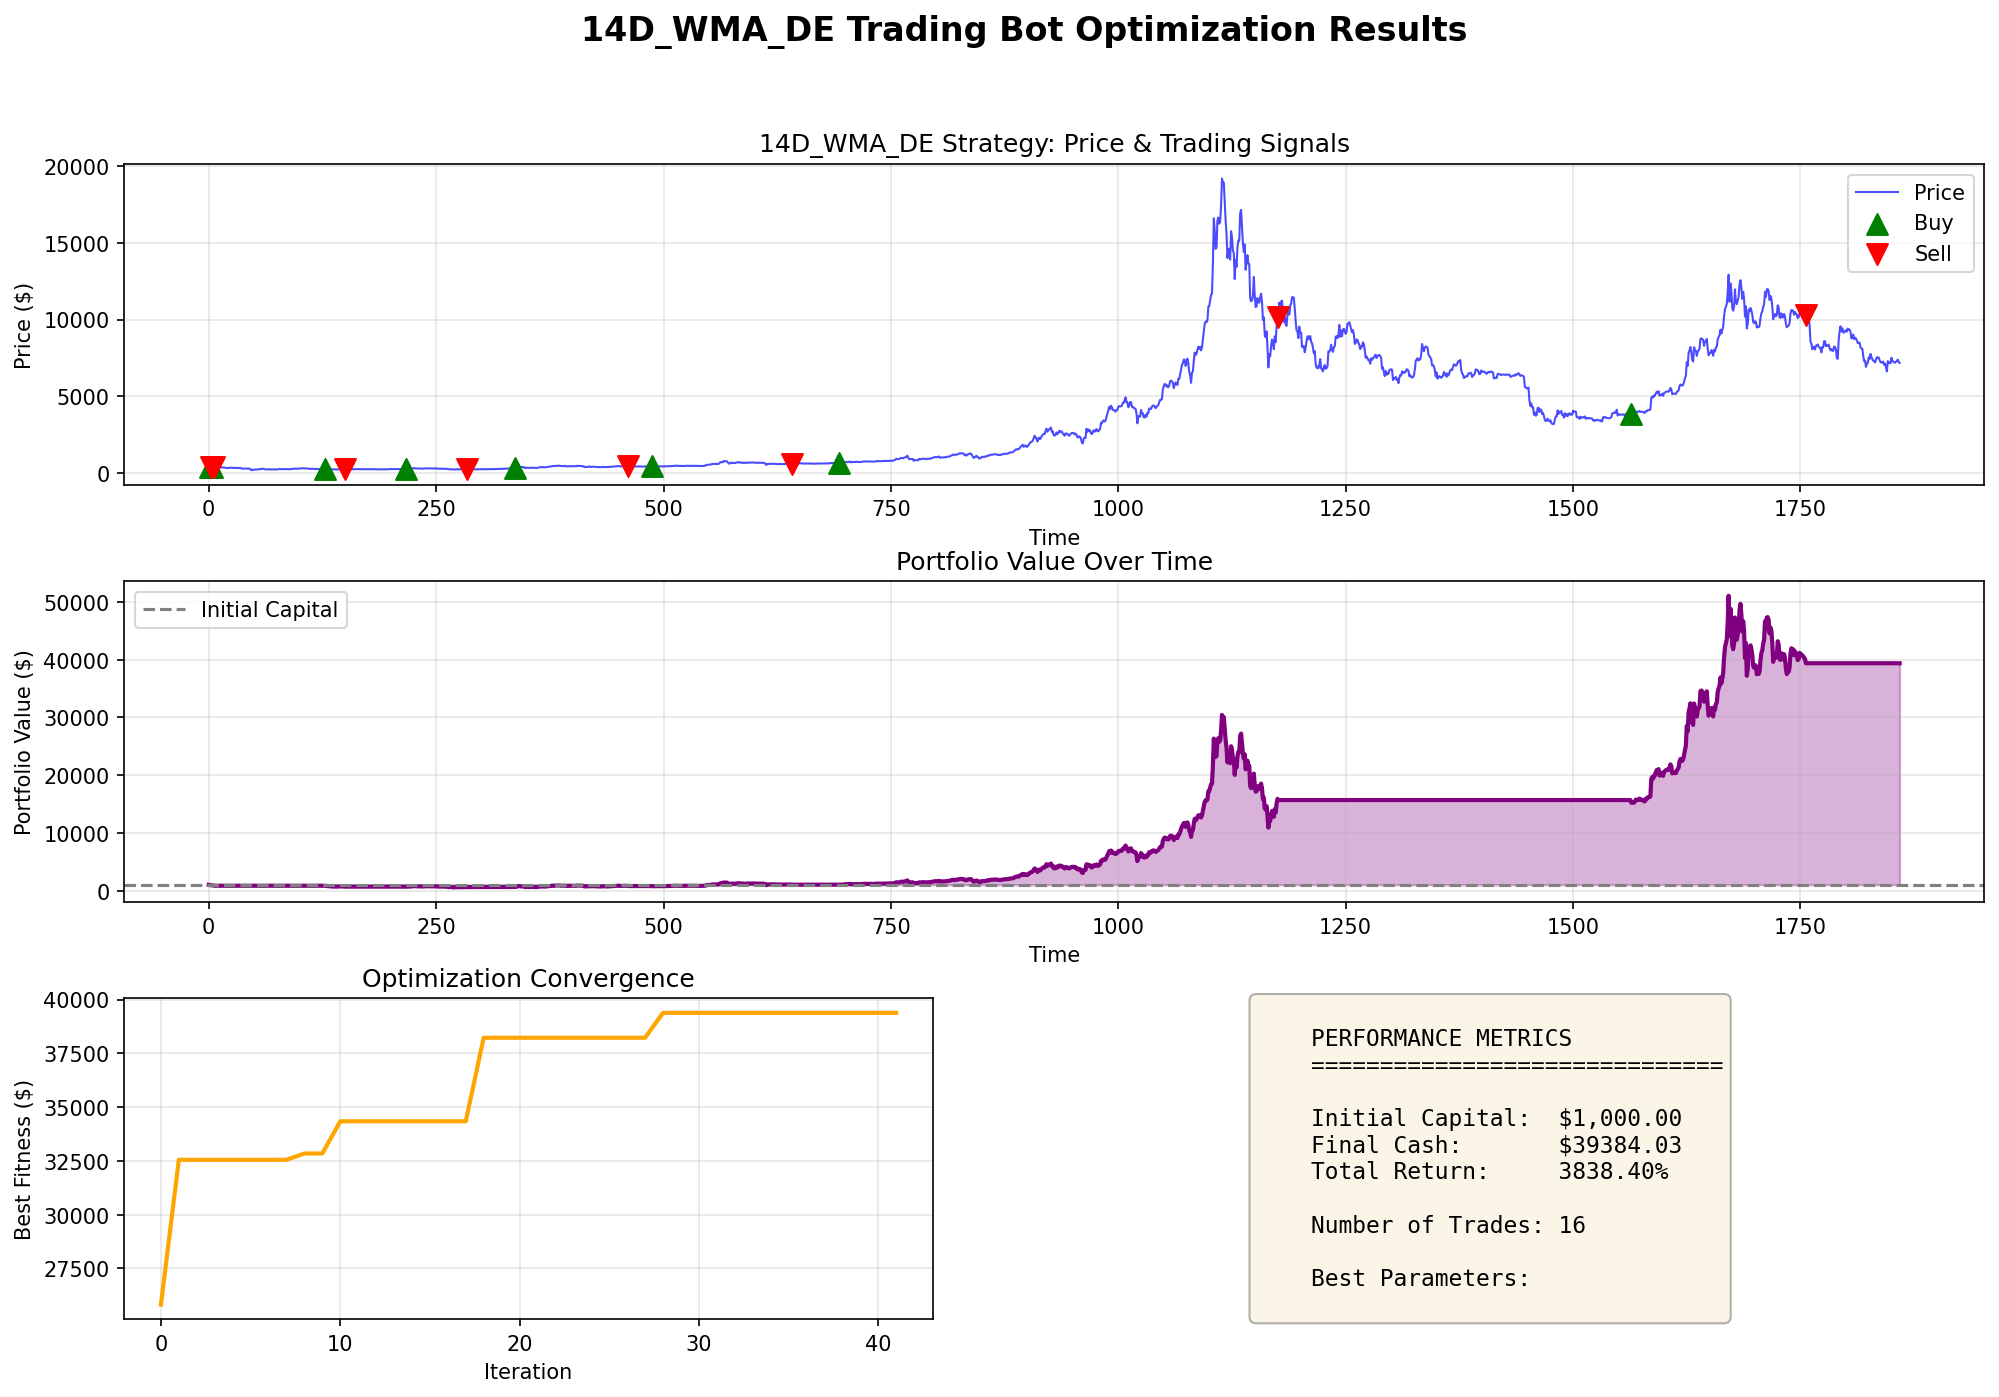
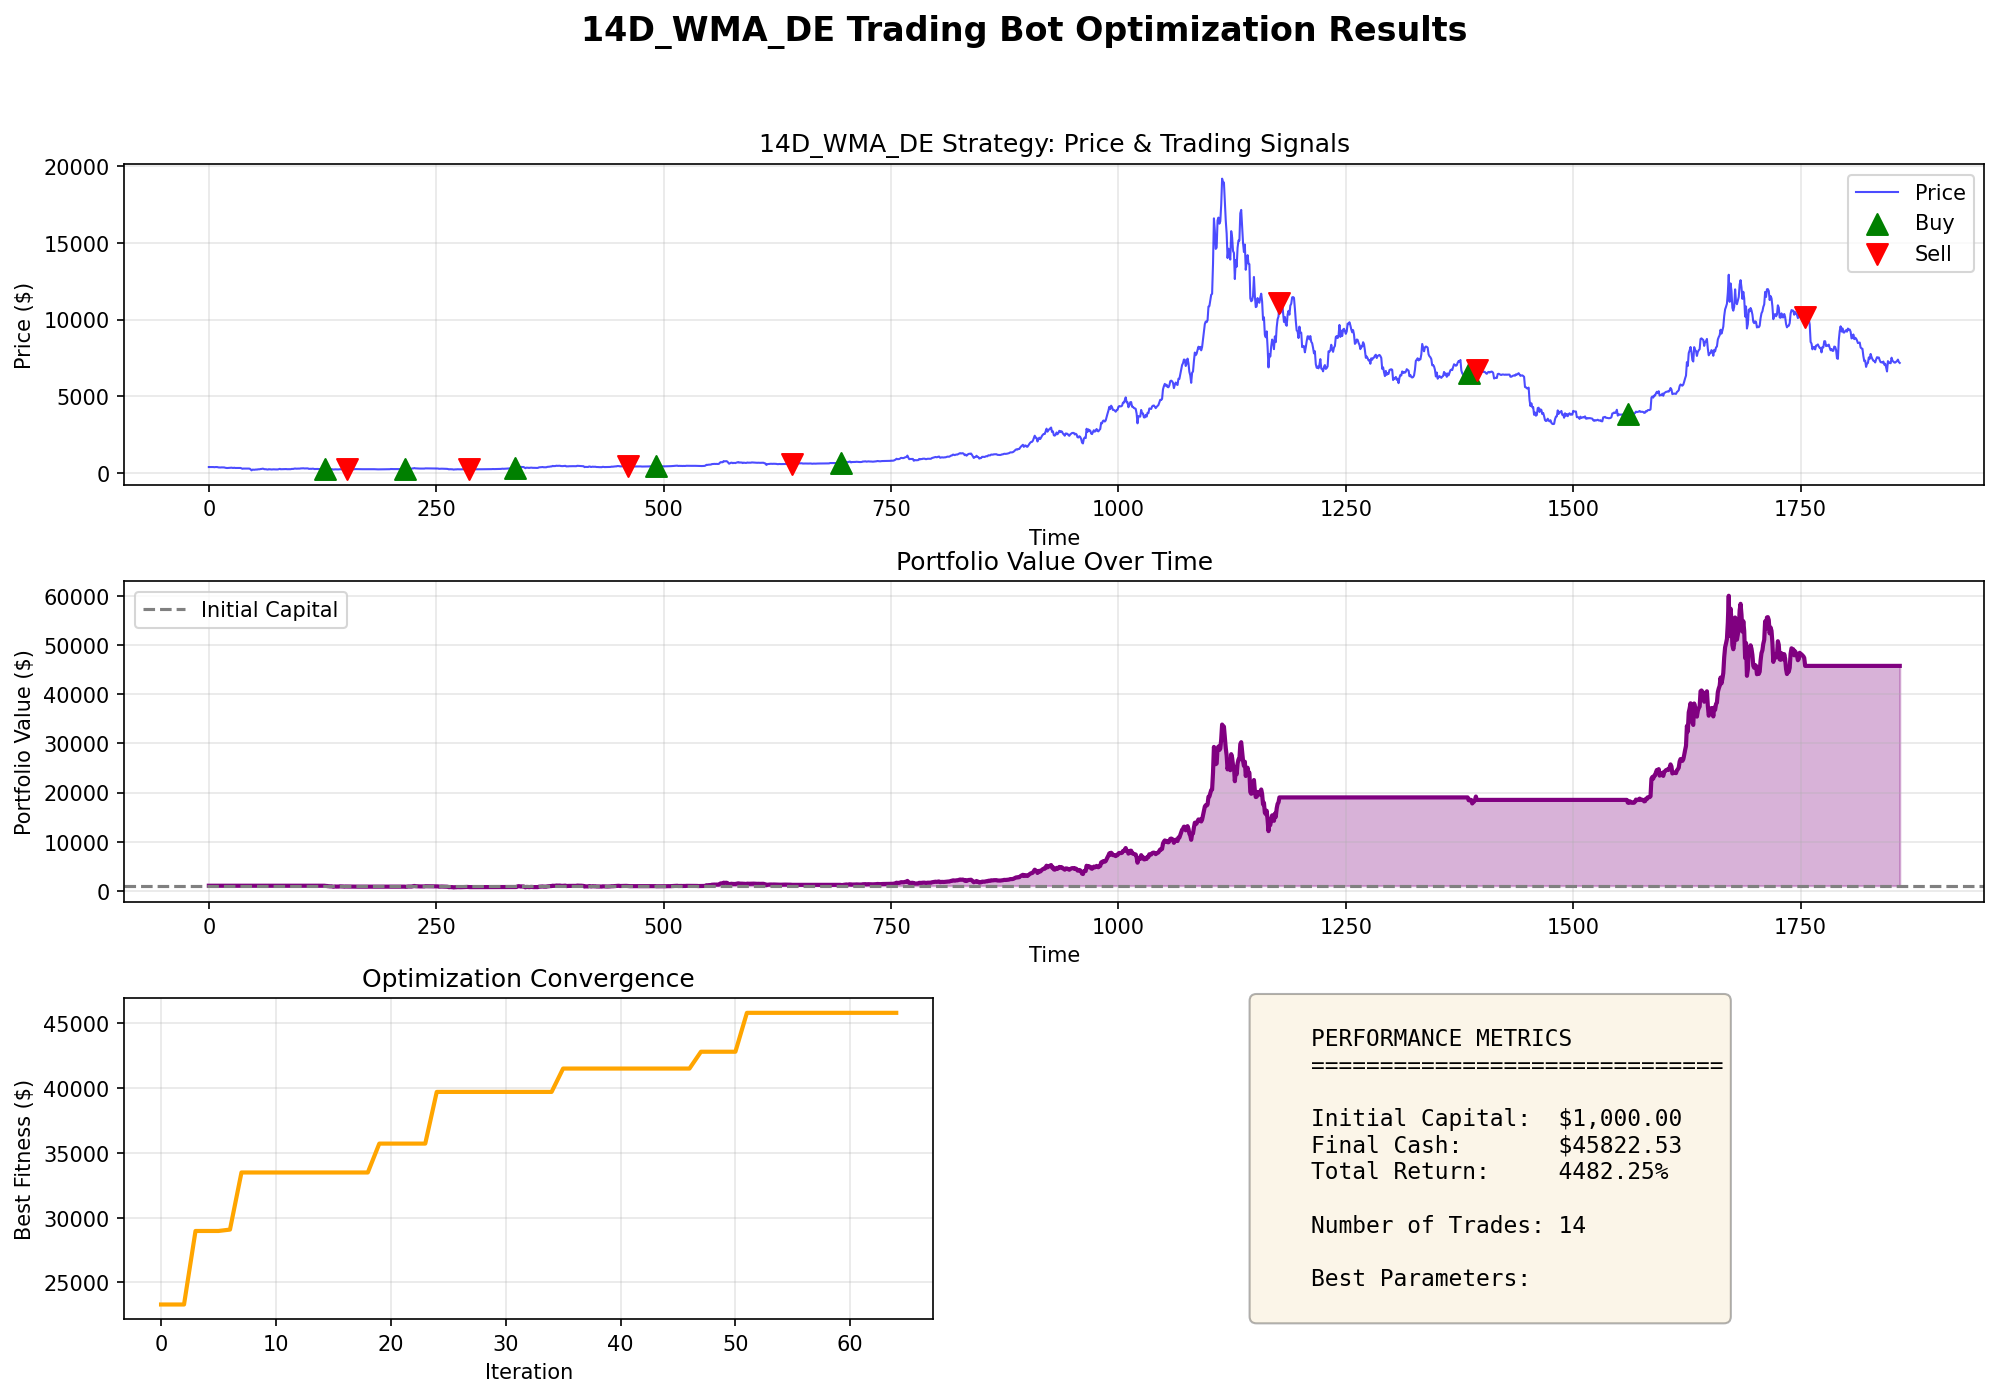
propagate seed from config to GA and PSO random number generators

diff --git a/main.py b/main.py
@@ -33,7 +33,7 @@ STRATEGIES = {
             "pop_size":  30,
             "max_iter":  100,
             "dim":       3,
-            "bounds":    [(5, 30), (20, 60), (5, 20)],
+            "bounds":    [(5, 50), (10, 200), (5, 50)],
             "max_time":  120,
             "patience":  15,
             "min_delta": 1.0,
@@ -135,14 +135,14 @@ def _classify(result):
 
 
 
-def run_optimization(prices, strategy_name, algo_name):
+def run_optimization(prices, strategy_name, algo_name, seed = 42):
     print(f"\n{'='*60}")
     print(f"  {algo_name} x {strategy_name}")
     print(f"{'='*60}\n")
 
     entry     = STRATEGIES[strategy_name]
     strategy  = entry['cls']()
-    config    = entry['config']
+    config    = {**entry['config'], 'seed': seed}
     bot       = trading_bot.TradingBot(prices, strategy)
     optimizer = ALGORITHMS[algo_name](config)
 
@@ -165,26 +165,37 @@ def run_optimization(prices, strategy_name, algo_name):
     return best_params, convergence, bot
 
 
-
 def print_summary(results):
-    print(f"\n{'='*60}")
-    print("RESULTS SUMMARY")
-    print(f"{'='*60}")
-    print(f"{'Strategy':<10} {'Algorithm':<8} {'Train':>12} {'Test':>12}")
-    print("-" * 46)
+    print(f"\n{'='*70}")
+    print("RESULTS SUMMARY (mean ± std over 3 seeds)")
+    print(f"{'='*70}")
+    print(f"  {'Strategy':<12} {'Algorithm':<8} {'Train $':<22} {'Test $'}")
+    print(f"  {'-'*65}")
+    
+    x = 0
 
+    for (strat, algo), r in sorted(results.items()):
+        train_str = f"${r['train_mean']:>10.2f} ± ${r['train_std']:.2f}"
+        test_str  = f"${r['test_mean']:>10.2f} ± ${r['test_std']:.2f}"
+        print(f"  {strat:<12} {algo:<8} {train_str:<22}  {test_str}")
+    
+        if x == 3:
+            print("-" * 46)
+            x = 0
+
+    print(f"\n  {'Strategy':<12} {'Algorithm':<8} {'All train scores'}")
+    print(f"  {'-'*65}")
 
     i = 0
 
-    for (strat, algo), (train_result, test_result) in sorted(results.items()):
-            print(f"{strat:<10} {algo:<8} ${train_result:>10.2f} ${test_result:>10.2f}")
+    for (strat, algo), r in sorted(results.items()):
+        scores = [f"${s:.0f}" for s in r['train_all']]
+        print(f"  {strat:<12} {algo:<8} {scores}")
+        i += 1
             
-            i += 1
-            
-            if i == 3:
-                print("-" * 46)
-                i = 0
-
+        if i == 3:
+            print("-" * 46)
+            i = 0
 
 
 def parse_args():
@@ -250,35 +261,54 @@ if __name__ == "__main__":
     if not args.no_diagnostics:
         run_diagnostics(prices_train, args.strategies)
 
-    results = {}
+    SEEDS = [42]
 
+    results = {}
+    
     for strat_name in args.strategies:
         for algo_name in args.algorithms:
+            train_scores = []
+            test_scores  = []
 
-            try:
-                best_params, convergence, bot_train = run_optimization(
-                    prices_train, strat_name, algo_name
-                )
+            for seed in SEEDS:
+                try:
+                    print(f"\n[{strat_name} | {algo_name} | seed={seed}]")
 
-                if best_params is None:
+                    best_params, convergence, bot_train = run_optimization(
+                        prices_train, strat_name, algo_name, seed=seed
+                    )
+
+                    if best_params is None:
+                        continue
+
+                    train_score = convergence[-1]
+                    bot_test    = trading_bot.TradingBot(
+                        prices_test, STRATEGIES[strat_name]['cls']()
+                    )
+                    test_score = bot_test.evaluate(best_params)
+
+                    train_scores.append(train_score)
+                    test_scores.append(test_score)
+
+                    print(f"  Seed {seed}: Train=${train_score:.2f}, Test=${test_score:.2f}")
+
+                except Exception as e:
+                    print(f"  Seed {seed} FAILED: {e}")
                     continue
 
-                bot_test    = trading_bot.TradingBot(prices_test, STRATEGIES[strat_name]['cls']())
-                test_result = bot_test.evaluate(best_params)
+            if train_scores:
+                results[(strat_name, algo_name)] = {
+                    'train_mean': np.mean(train_scores),
+                    'train_std':  np.std(train_scores),
+                    'test_mean':  np.mean(test_scores),
+                    'test_std':   np.std(test_scores),
+                    'train_all':  train_scores,
+                    'test_all':   test_scores,
+                }
 
-                print(f"\n[{strat_name} | {algo_name}] Out-of-sample: ${test_result:.2f}")
-
-                results[(strat_name, algo_name)] = (bot_train.evaluate(best_params), test_result)
-
-                visualisation.visualise_results(
-                    prices_train, bot_train, best_params, convergence,
-                    f"{strat_name}_{algo_name}"
-                )
-
-            except Exception as e:
-                print(f"\n[{strat_name} | {algo_name}] FAILED: {e}")
-                import traceback
-                traceback.print_exc()
-                continue
-
+            #if best_params is not None:
+            #   visualisation.visualise_results(
+            #        prices_train, bot_train, best_params,
+            #        convergence, f"{strat_name}_{algo_name}"
+            #    )
     print_summary(results)

diff --git a/trading_strategies/strategies.py b/trading_strategies/strategies.py
@@ -29,18 +29,49 @@ class SMACrossover(BaseStrategy):
 
 #3D
 class MACDCrossover(BaseStrategy):
-
     def generate(self, price, params):
-        fast = int(params[0])
-        slow = int(params[1])
+        fast   = int(params[0])
+        slow   = int(params[1])
         signal = int(params[2])
 
         if fast >= slow:
             return None
 
-        macd_line, signal_line = Indicators.macd(price,fast,slow,signal)
+        macd_line, signal_line = Indicators.macd(price, fast, slow, signal)
 
-        return np.where(macd_line>signal_line,1,-1)
+        min_len    = min(len(macd_line), len(signal_line))
+        macd_line  = macd_line[-min_len:]
+        signal_line = signal_line[-min_len:]
+
+        # ── Generate crossover signal ──────────────────────────
+        # Start neutral
+        signals = np.zeros(min_len, dtype=int)
+
+        # Detect actual crossovers
+        above = macd_line > signal_line
+
+        for i in range(1, min_len):
+            if above[i] and not above[i-1]:
+                signals[i] = 1      # crossed above → buy
+            elif not above[i] and above[i-1]:
+                signals[i] = -1     # crossed below → sell
+
+        # ── Hold position between crossovers ───────────────────
+        position = -1   # start neutral/short
+        result   = np.zeros(min_len, dtype=int)
+
+        for i in range(min_len):
+            if signals[i] == 1:
+                position = 1
+            elif signals[i] == -1:
+                position = -1
+            result[i] = position
+
+        # Pad to match original price length
+        full_signal = np.full(len(price), result[0])
+        full_signal[-min_len:] = result
+
+        return full_signal
 
 #7D
 class WMACrossover7D(BaseStrategy):

diff --git a/optimisers/ga.py b/optimisers/ga.py
@@ -27,7 +27,6 @@ class GA(Optimiser):
         elitism=2,
         tournament_k=3,
         restart_patience=20,
-        seed=42,
     ):
         super().__init__(config)
         self.crossover_rate   = crossover_rate
@@ -36,7 +35,7 @@ class GA(Optimiser):
         self.elitism          = elitism         # top-N carried over unchanged
         self.tournament_k     = tournament_k    # individuals compared per selection
         self.restart_patience = restart_patience
-        self.rng              = np.random.default_rng(seed)
+        self.rng              = np.random.default_rng(self.seed)
 
     # ── Fitness ────────────────────────────────────────────────────────
 

diff --git a/optimisers/pso.py b/optimisers/pso.py
@@ -10,7 +10,7 @@ class PSO(Optimiser):
         self.w = w
         self.c1 = c1
         self.c2 = c2
-        self.rng = np.random.default_rng(seed)
+        self.rng = np.random.default_rng(self.seed)
 
     def fitness(self, bot, params):
         return bot.evaluate(params)

diff --git a/optimisers/base.py b/optimisers/base.py
@@ -5,6 +5,7 @@ import math
 
 class Optimiser(ABC):
     def __init__(self, config):
+        self.seed = config.get('seed', 42)  
         self.pop_size = config["pop_size"]
         self.max_iter = config.get("max_iter")
         self.dim = config["dim"]
